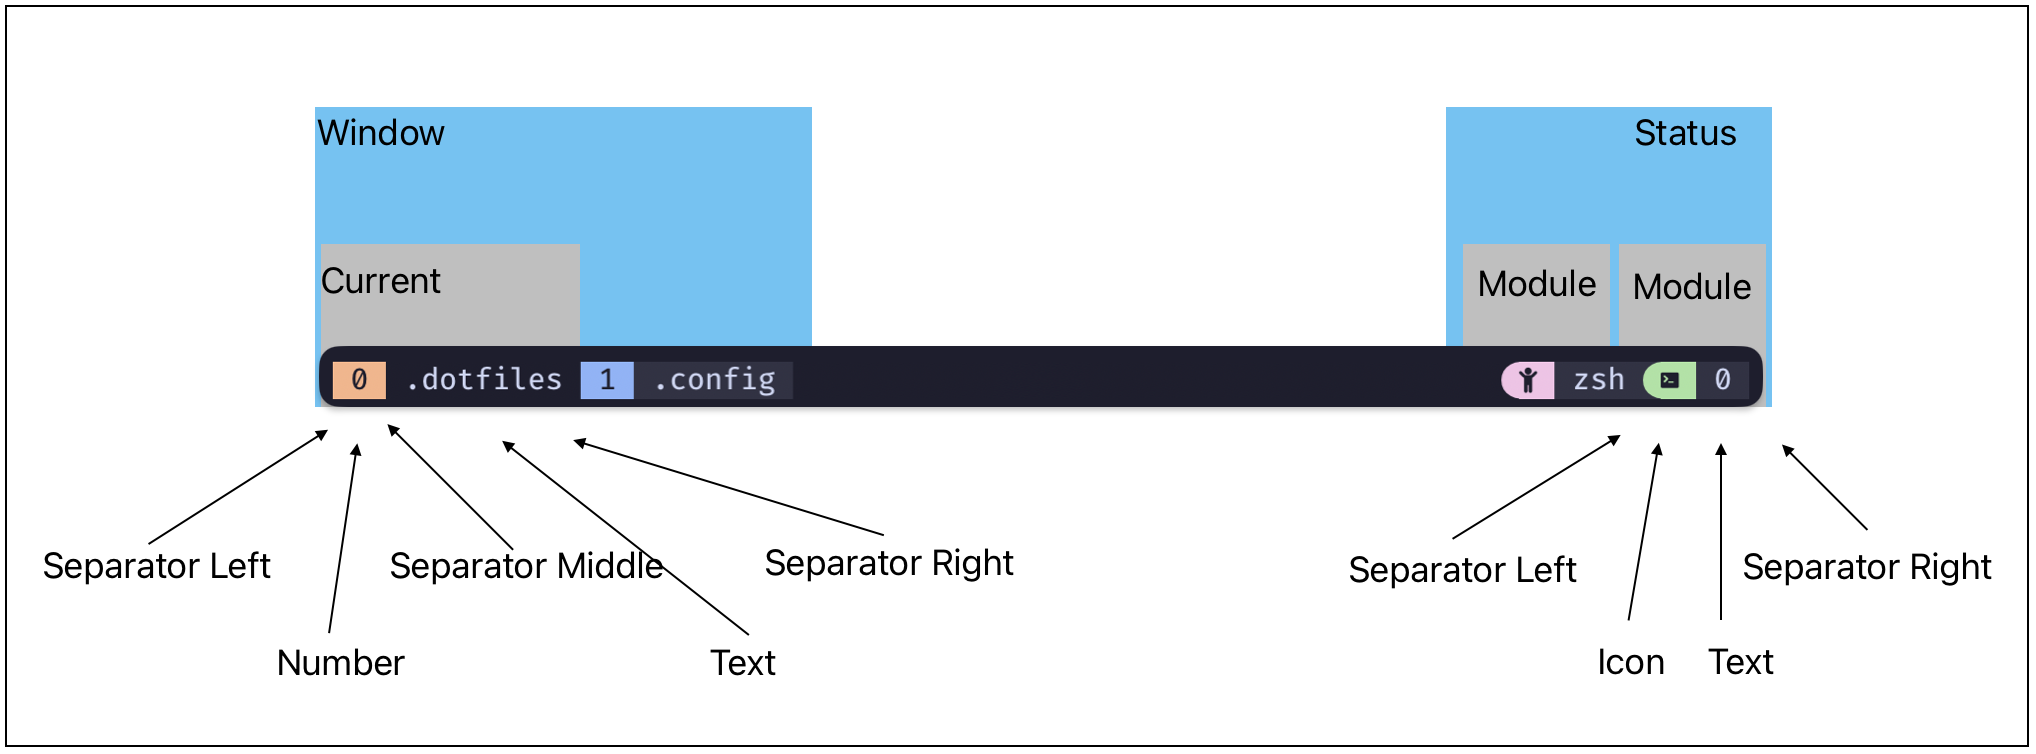
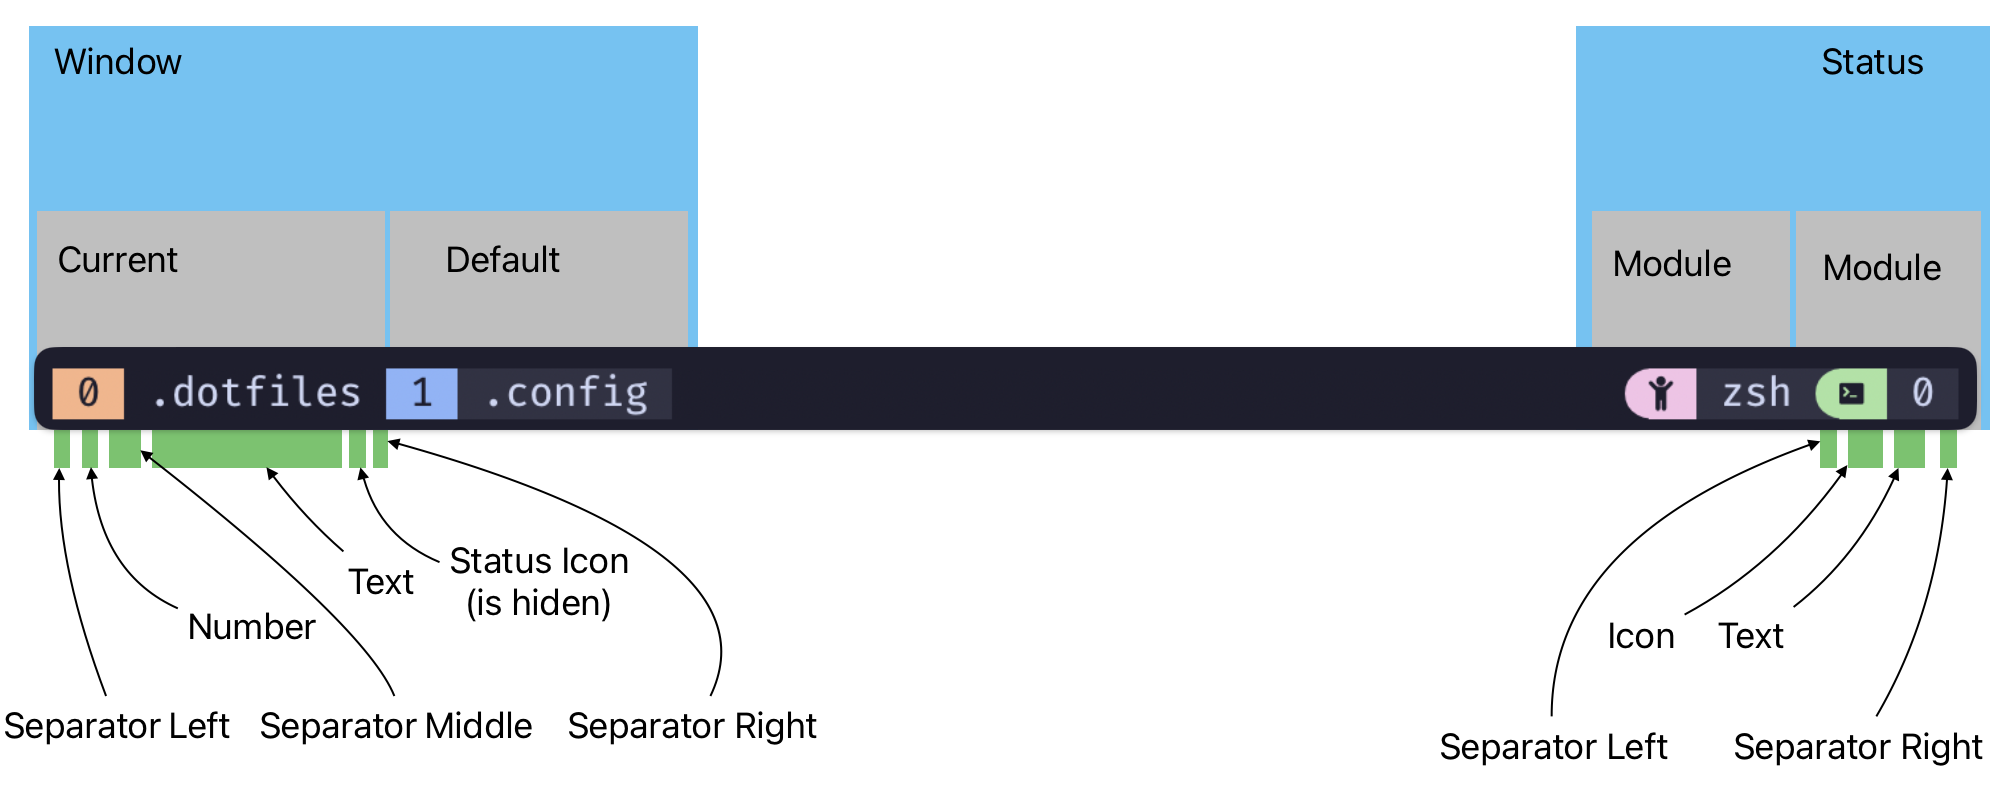
feat(docs): update docs with recent changes

diff --git a/README.md b/README.md
@@ -95,29 +95,72 @@ set -g @catppuccin_window_middle_separator "█"
 set -g @catppuccin_window_right_separator "█"
 ```
 
-#### Set the color fill:
-```sh
-set -g @catppuccin_window_color_fill "number"
-```
-Values:
-- number - only the number of the window part will have color
-- all - the entire window part will have the same color
-
 #### Position the number:
 ```sh
-set -g @catppuccin_window_icon_position "left"
+set -g @catppuccin_window_number_position "left"
 ```
 Values:
 - left - the number will be on the left part of the window
 - right - the number will be on the right part of the window
 
-#### Set the window style format
+#### Enable window status:
 ```sh
-set -g @catppuccin_window_format_style "directory"
+set -g @ccatppuccin_window_status_enable "yes"
 ```
 Values:
-- directory - will display the basename of the window path
-- application - will display the running application of the window
+- yes - this will enable the window status part
+- no - this will disable the window status part
+
+#### Enable window status icons instead of text:
+```sh
+set -g @catppuccin_window_status_icon_enable "yes"
+```
+Values:
+- yes - this will replace the windows status text with icons
+- no - this will keep the windows status in text format
+
+### Override windows status icons
+```sh
+set -g @catppuccin_icon_window_last ""
+set -g @catppuccin_icon_window_current ""
+set -g @catppuccin_icon_window_zoom ""
+set -g @catppuccin_icon_window_mark ""
+set -g @catppuccin_icon_window_silent ""
+set -g @catppuccin_icon_window_activity ""
+set -g @catppuccin_icon_window_bell ""
+```
+
+### Window default
+
+#### Set the window default color fill:
+```sh
+set -g @catppuccin_window_default_fill "number"
+```
+Values:
+- number - only the number of the window part will have color
+- all - the entire window part will have the same color
+- none - the entire window part will have no color
+
+#### Override the window default text:
+```sh
+set -g @catppuccin_window_default_text "#{b:pane_current_path}" # use "#W" for application instead of directory 
+```
+
+### Window current
+
+#### Set the window current color fill:
+```sh
+set -g @catppuccin_window_current_fill "number"
+```
+Values:
+- number - only the number of the window part will have color
+- all - the entire window part will have the same color
+- none - the entire window part will have no color
+
+#### Override the window current text:
+```sh
+set -g @catppuccin_window_current_text "#{b:pane_current_path}" # use "#W" for application instead of directory 
+```
 
 #### Set the current directory format
 ```sh
